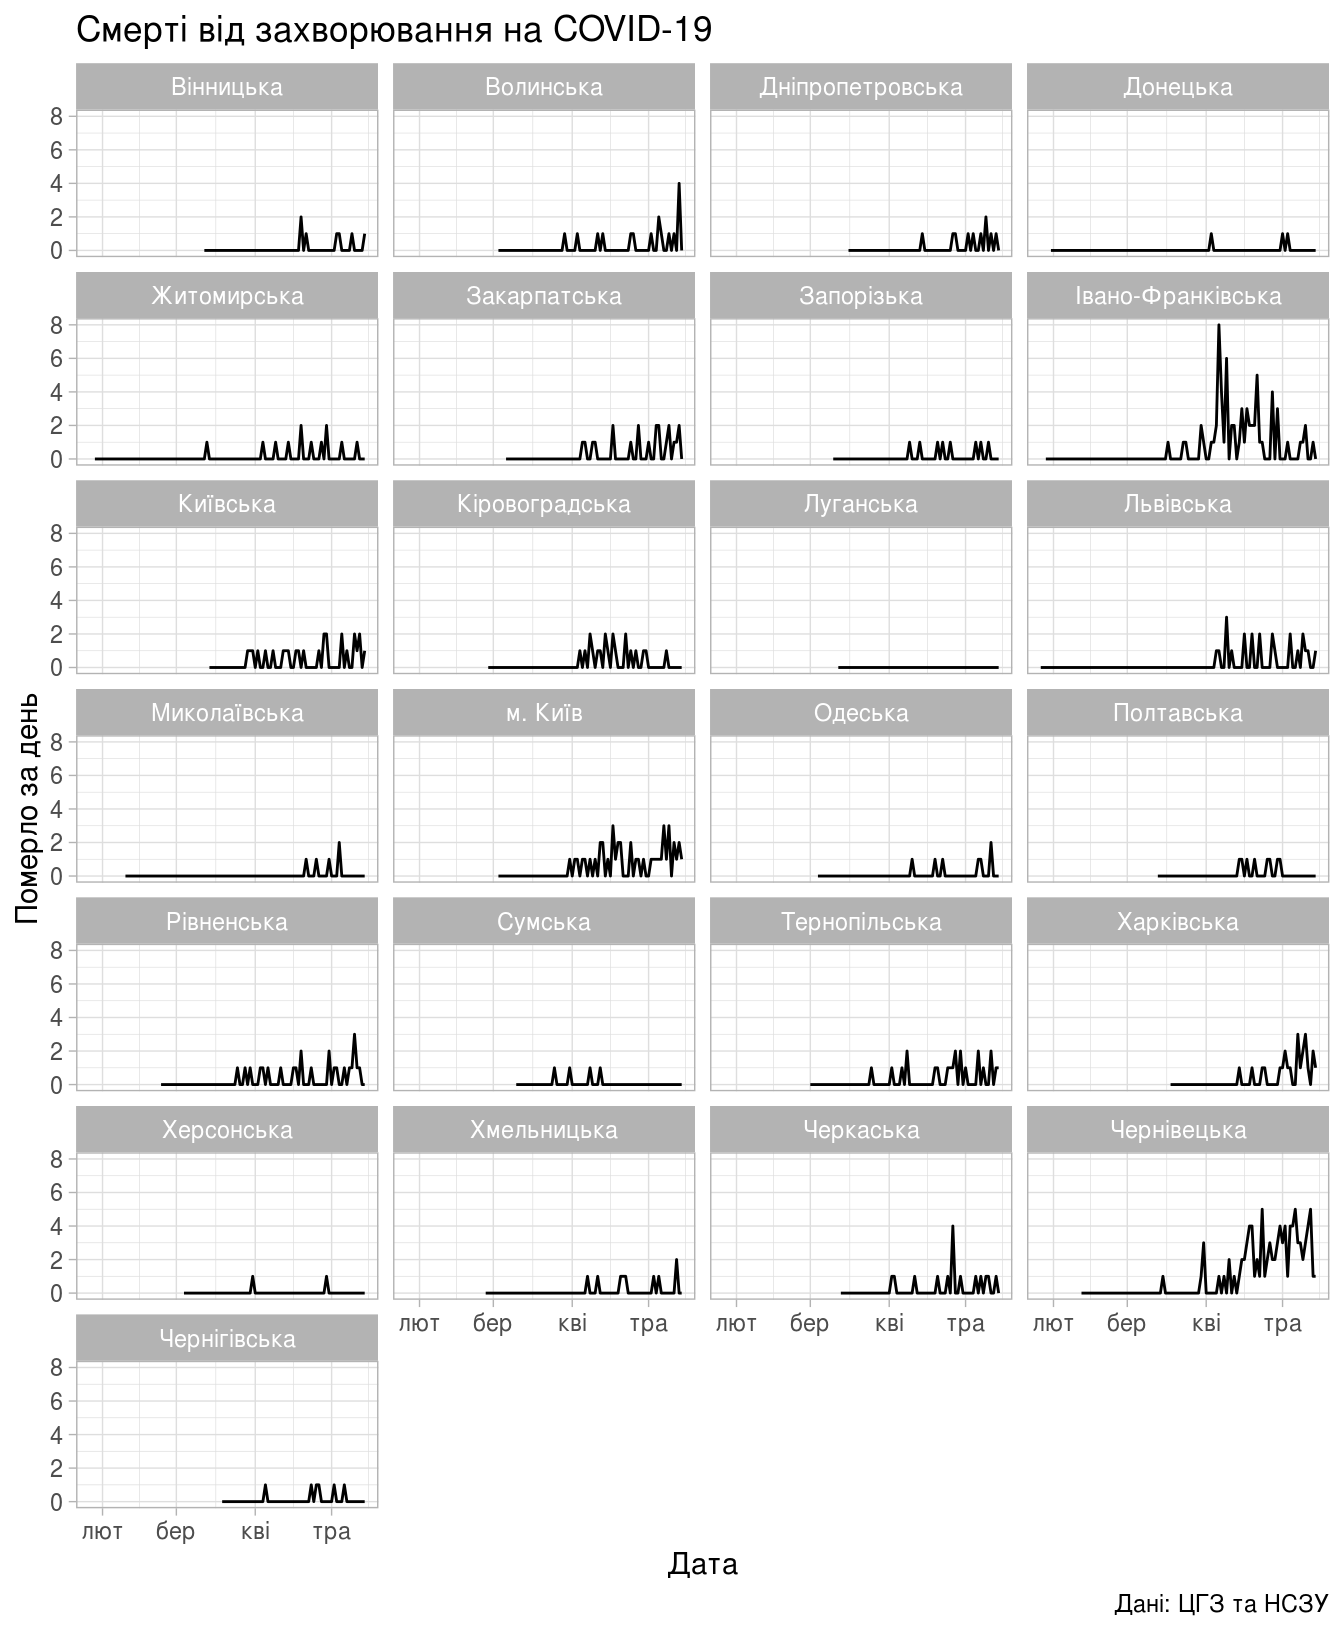
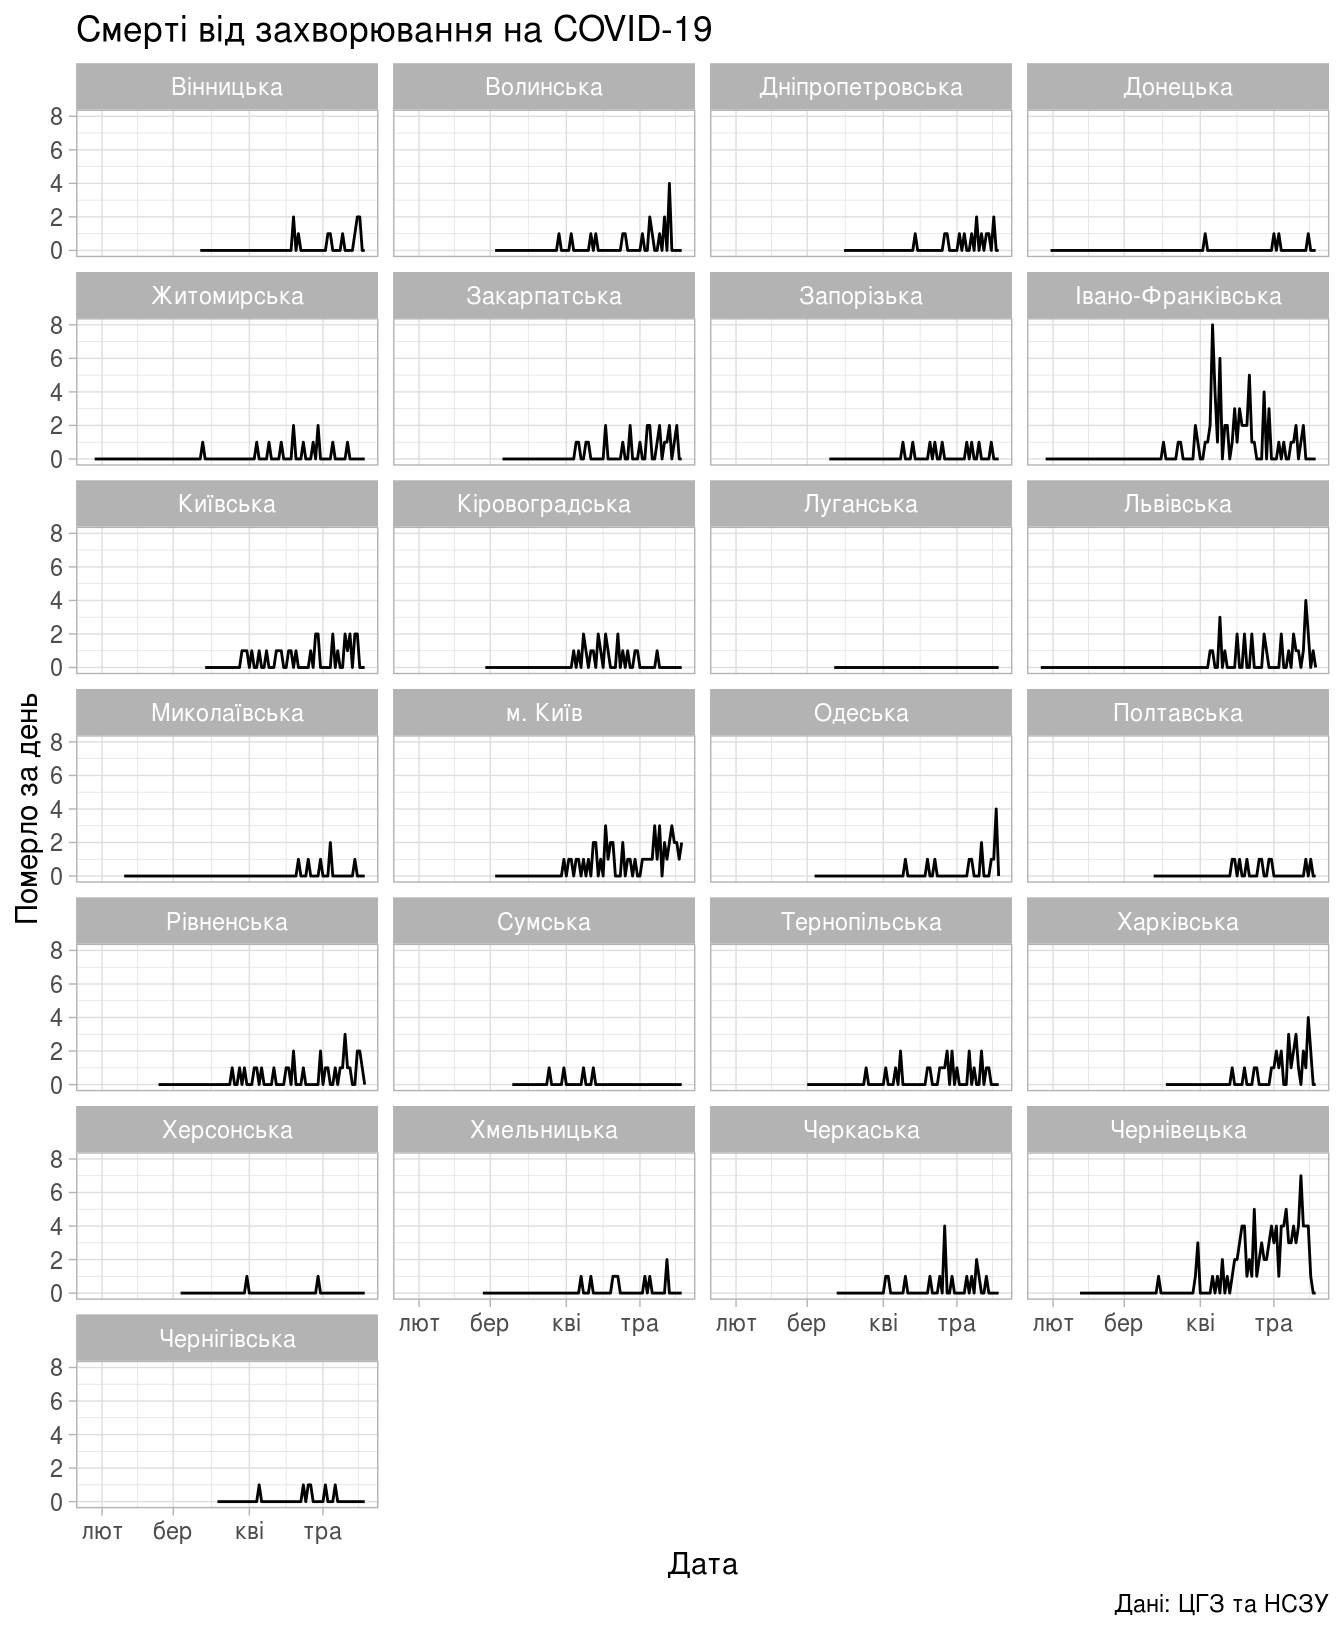
додано перші "гістограми" (поки що просто стовпчикові діаграми)
- додано перші "гістограми" (поки що просто стовпчикові діаграми)
 - в графіках по регіонах виправлено проблему з різним написанням
   Полтавської області (з великої та малої літери)
 - в крапковому графіку областей за першим звітом відсортовано за
   датою першого звіту

diff --git a/docs/regions_dyn.md b/docs/regions_dyn.md
@@ -60,12 +60,12 @@ head(area_dyn)
     ## # A tibble: 6 x 16
     ##   zvit_date  registration_ar… priority_hosp_a… edrpou_hosp legal_entity_na…
     ##   <date>     <chr>            <chr>            <chr>       <chr>           
-    ## 1 2020-05-14 Вінницька        Вінницька        01982494    КНП БЕРШАДСЬКА …
-    ## 2 2020-05-14 Вінницька        Вінницька        01982502    КНП ВІННИЦЬКА Ц…
-    ## 3 2020-05-14 Вінницька        Вінницька        01982502    КНП ВІННИЦЬКА Ц…
-    ## 4 2020-05-14 Вінницька        Вінницька        01982502    КНП ВІННИЦЬКА Ц…
-    ## 5 2020-05-14 Вінницька        Вінницька        01982502    КНП ВІННИЦЬКА Ц…
-    ## 6 2020-05-14 Вінницька        Вінницька        01982502    КНП ВІННИЦЬКА Ц…
+    ## 1 2020-05-18 Вінницька        Вінницька        01982494    КНП БЕРШАДСЬКА …
+    ## 2 2020-05-18 Вінницька        Вінницька        01982502    КНП ВІННИЦЬКА Ц…
+    ## 3 2020-05-18 Вінницька        Вінницька        01982502    КНП ВІННИЦЬКА Ц…
+    ## 4 2020-05-18 Вінницька        Вінницька        01982502    КНП ВІННИЦЬКА Ц…
+    ## 5 2020-05-18 Вінницька        Вінницька        01982502    КНП ВІННИЦЬКА Ц…
+    ## 6 2020-05-18 Вінницька        Вінницька        01982502    КНП ВІННИЦЬКА Ц…
     ## # … with 11 more variables: legal_entity_lat <dbl>, legal_entity_lng <dbl>,
     ## #   person_gender <chr>, person_age_group <chr>, add_conditions <chr>,
     ## #   is_medical_worker <chr>, new_susp <dbl>, new_confirm <dbl>,
@@ -88,6 +88,10 @@ zvit\_date, registration\_area, priority\_hosp\_area, edrpou\_hosp, legal\_entit
 ``` r
 daily_area_reg_dyn <- area_dyn %>%
     select(zvit_date, registration_area, new_susp, new_confirm, new_death) %>%
+    mutate(registration_area=stringr::str_to_title(registration_area)) %>%
+    mutate(registration_area=factor(case_when(
+               registration_area == "М. Київ" ~ "м. Київ",
+               TRUE ~ registration_area))) %>%
     group_by(zvit_date, registration_area) %>%
     summarise(new_susp = sum(new_susp),
               new_confirm = sum(new_confirm),
@@ -200,30 +204,38 @@ plot_susp
 
 ``` r
 area_first <- area_dyn %>%
-    select(zvit_date, registration_area) %>%
+    select(zvit_date, registration_area, new_confirm) %>%
+    mutate(registration_area=stringr::str_to_title(registration_area)) %>%
+    mutate(registration_area=factor(case_when(
+               registration_area == "М. Київ" ~ "м. Київ",
+               TRUE ~ registration_area))) %>%
     group_by(registration_area) %>%
-    summarise(zvit_date=min(zvit_date))
+    summarise(zvit_date=min(zvit_date),
+              new_confirm=sum(new_confirm))
 
 latest <- max(area_first$zvit_date)
 ```
 
-Створити так званий «lolipop» графік:
+Крапками позначимо перший лабораторно підтверджений випадок захворювання, але скористаємось функцією `fct_reorder` для розташування областей в хронологічній послідовності:
 
 ``` r
-(ggplot(area_first, aes(x=registration_area, y=zvit_date))
-    + geom_segment(aes(x=registration_area,
-                       xend=registration_area,
-                       y=latest, yend=zvit_date),
-                   color="grey")
-    + geom_point(color="orange", size=4)
+(ggplot(area_first,
+        aes(fct_reorder(registration_area,desc(zvit_date)),
+            zvit_date,
+            size=new_confirm))
+    + geom_point(color="orange")
+    + scale_size_continuous(name = "Всього випадків")
     + coord_flip()
     + theme_light()
     + theme(
           panel.grid.major.x = element_blank(),
           panel.border = element_blank(),
-          axis.ticks.x = element_blank())
-    + xlab("")
-    + ylab("Дата першого звіту"))
+          axis.ticks.x = element_blank(),
+          legend.position = "bottom")
+    + labs(title="Дата першого звіту",
+           subtitle="Розмір кола залежить від сумарної кількості випадків",
+           x="",
+           y=""))
 ```
 
 <img src="fig_regions_dyn/daily_area_regions_first_zvit-1.png" width="672" />

diff --git a/docs/histograms.md b/docs/histograms.md
@@ -1,0 +1,83 @@
+Гістограми
+================
+
+В продовження до попередньої статті «[Динаміка поширення коронавірусної інфекції по областях](regions_dyn.html)» побудуємо гістограми.
+
+Дні, коли найбільше та найменше реєструють
+------------------------------------------
+
+``` r
+library(tidyverse)
+Sys.setlocale(category="LC_ALL",locale="uk_UA.utf8" )
+```
+
+``` r
+area_dyn <- read_csv('../covid19_by_area_type_hosp_dynamics.csv')
+```
+
+    ## Parsed with column specification:
+    ## cols(
+    ##   zvit_date = col_date(format = ""),
+    ##   registration_area = col_character(),
+    ##   priority_hosp_area = col_character(),
+    ##   edrpou_hosp = col_character(),
+    ##   legal_entity_name_hosp = col_character(),
+    ##   legal_entity_lat = col_number(),
+    ##   legal_entity_lng = col_number(),
+    ##   person_gender = col_character(),
+    ##   person_age_group = col_character(),
+    ##   add_conditions = col_character(),
+    ##   is_medical_worker = col_character(),
+    ##   new_susp = col_double(),
+    ##   new_confirm = col_double(),
+    ##   active_confirm = col_double(),
+    ##   new_death = col_double(),
+    ##   new_recover = col_double()
+    ## )
+
+``` r
+area_dyn <- area_dyn %>%
+    mutate(Weekday_Num = factor(strftime(zvit_date, format="%u"))) %>%
+    mutate(Weekday_Name = factor(case_when(
+               Weekday_Num == "1" ~ "Понеділок",
+               Weekday_Num == "2" ~ "Вівторок",
+               Weekday_Num == "3" ~ "Середа",
+               Weekday_Num == "4" ~ "Четвер",
+               Weekday_Num == "5" ~ "П'ятниця",
+               Weekday_Num == "6" ~ "Субота",
+               Weekday_Num == "7" ~ "Неділя",
+               TRUE ~ "etc")))
+```
+
+``` r
+dyn_by_day <- area_dyn %>%
+    select(Weekday_Name, Weekday_Num, new_susp, new_confirm, new_death) %>%
+    group_by(Weekday_Name) %>%
+    summarise(Weekday_Num = first(Weekday_Num),
+              new_susp = sum(new_susp),
+              new_confirm = sum(new_confirm),
+              new_death = sum(new_death))
+```
+
+``` r
+(ggplot(dyn_by_day, aes(x=Weekday_Num, y=new_susp))
+    + geom_bar(stat="identity"))
+```
+
+<img src="fig_histograms_dyn/unnamed-chunk-6-1.png" width="672" />
+
+``` r
+(ggplot(dyn_by_day, aes(x=Weekday_Num, y=new_confirm))
+    + geom_bar(stat="identity"))
+```
+
+<img src="fig_histograms_dyn/unnamed-chunk-7-1.png" width="672" />
+
+``` r
+(ggplot(dyn_by_day, aes(x=Weekday_Num, y=new_death))
+    + geom_bar(stat="identity"))
+```
+
+<img src="fig_histograms_dyn/unnamed-chunk-8-1.png" width="672" />
+
+[Повернутись на головну](index.html) або [повідомити про помилку]((https://github.com/vityok/covid19_ua/issues))

diff --git a/docs/index.md b/docs/index.md
@@ -13,6 +13,7 @@
 
 Іще графіки:
  - [Динаміка поширення коронавірусної інфекції по областях](regions_dyn.html)
+ - [Гістограми](histograms.html) (в роботі)
 
 Загальний огляд
 ---------------
